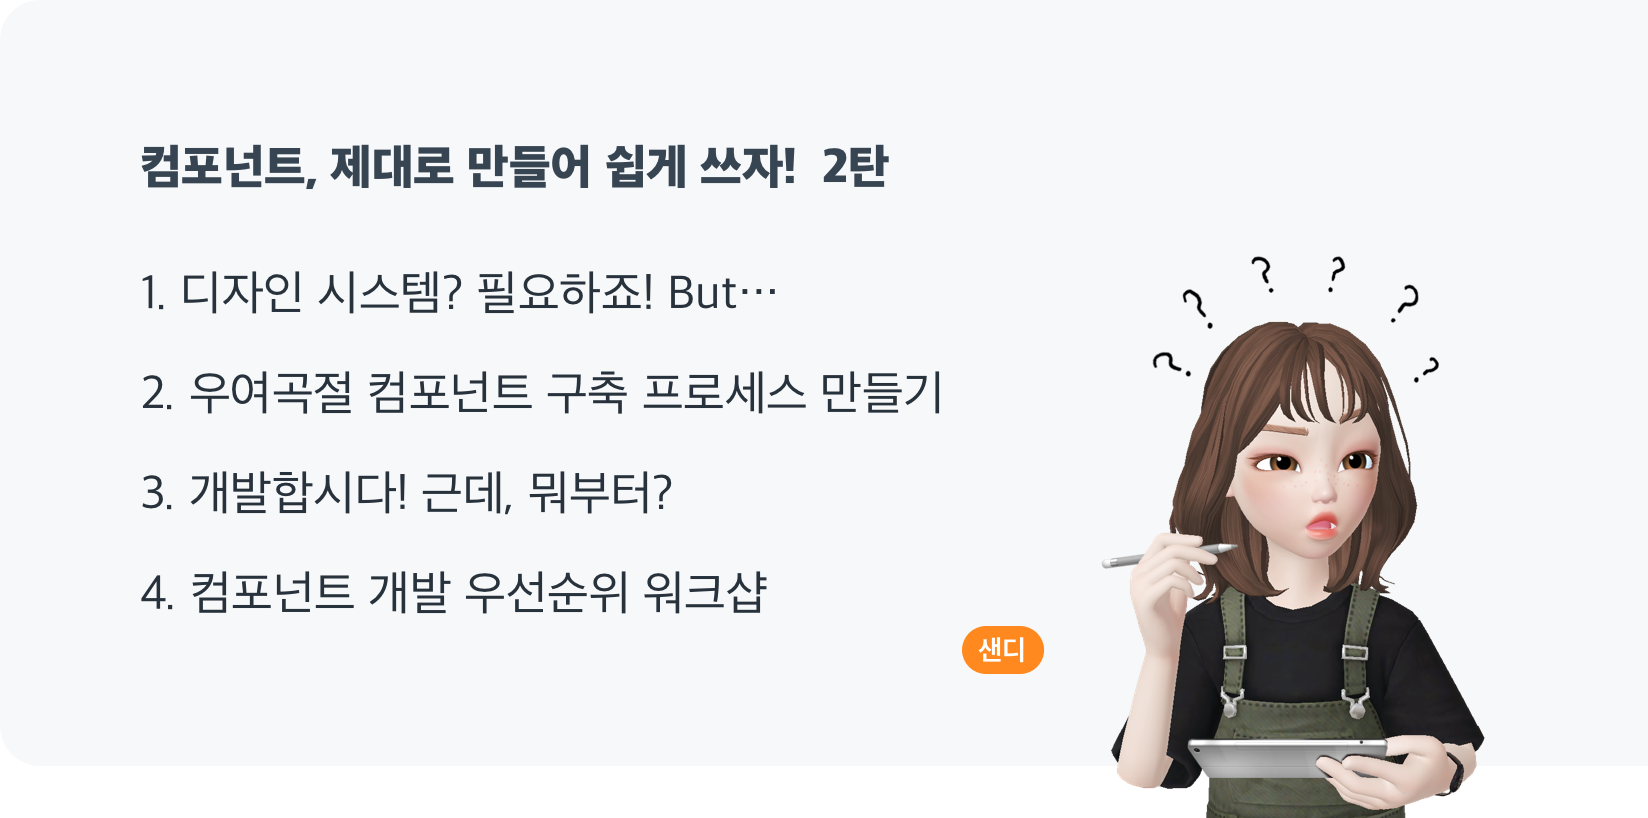
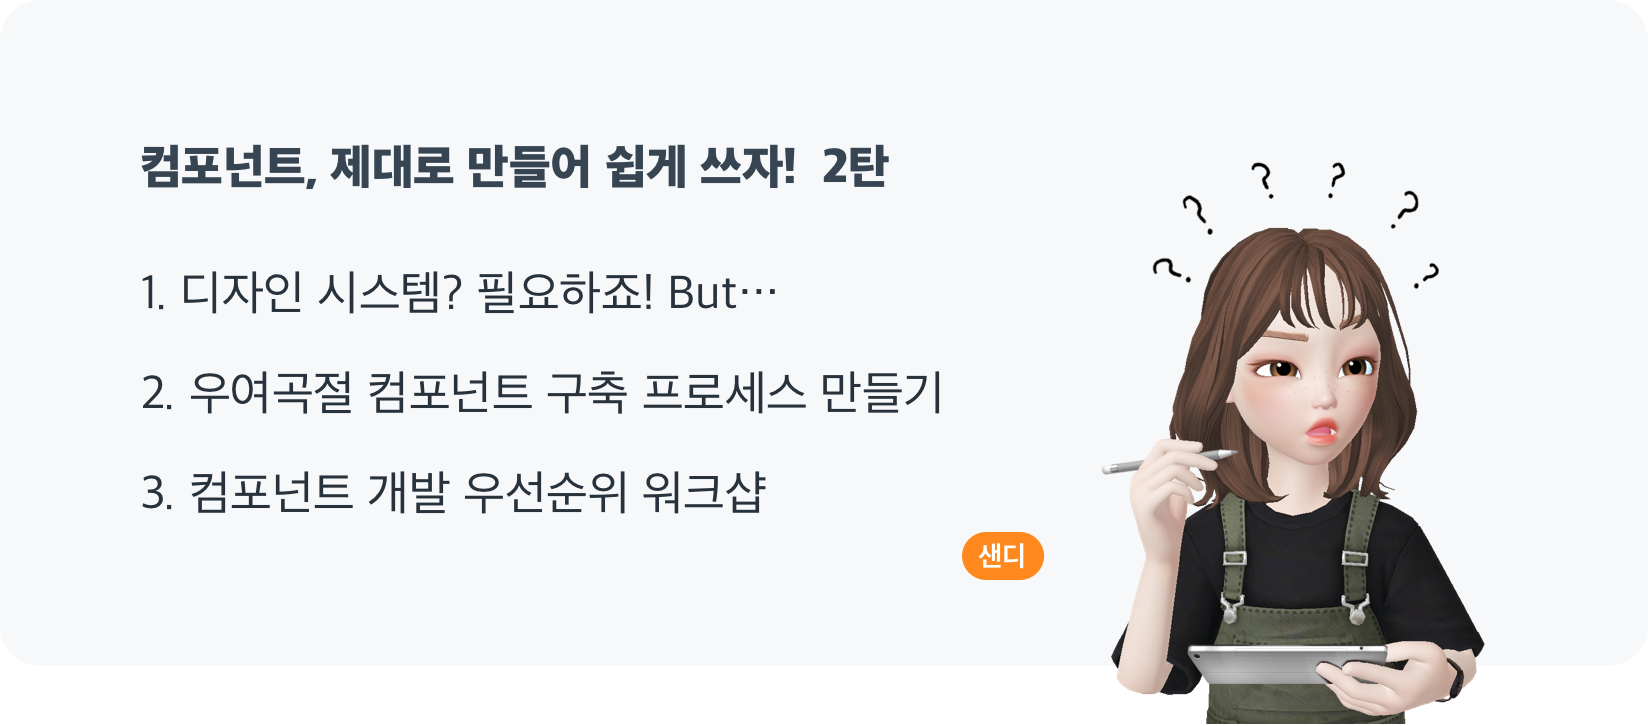
[modify] review 반영

diff --git a/_posts/2020-09-08-component-02.md b/_posts/2020-09-08-component-02.md
@@ -23,7 +23,7 @@ tags:
 
 ### 이번 글에서는...
 
-지난 글에서는 쏘카에서 컴포넌트가 필요했던 이유와 구축 방법에 대해 소개하며 주로 결과에 관해 이야기 했고, 이번에는 컴포넌트 구축을 하며 겪었던 **외부적인 어려움과 그 어려움을 해결하기 위해 치열하게 고민했던 경험**을 나누려 합니다! 
+지난 글에서는 쏘카에서 컴포넌트가 필요했던 이유와 구축 방법에 대해 소개하며 주로 결과에 관해 이야기 했고, 이번에는 컴포넌트 구축을 하며 겪었던 **어려움과 그 어려움을 해결하기 위해 치열하게 고민했던 경험**을 나누려 합니다! 
 
 ![](/img/component-02/01.png){: width="100%" height="100%"}
 
@@ -49,8 +49,6 @@ tags:
 
 <br />
 
----
-
 <br />
 
 ### 1) 🙏 미안해요, 개발할 시간이 없어요!
@@ -69,6 +67,8 @@ tags:
 
 
 ### 2) 개발하기로 확정했지만, 정체된 이유는?
+
+<br />
 
 1. **기존 업무 프로세스는** 배포 주기 단위의 **단기 업무 중심**인데, **디자인 시스템은 장기 프로젝트라** 기존 업무 프로세스에서 정상적으로 진행되기 어려움
 2. 프로젝트가 계획 가능한 작은 단위로 정리되어 있지 않고, **포괄적으로 뭉쳐있음 ("버튼 개발"이 아니라 "컴포넌트 구축하기" 이런 식으로.)**
@@ -91,6 +91,8 @@ tags:
 
 ### 1) 컴포넌트를 원활하게 개발 하려면?
 
+<br />
+
 1. **한 버전에 한 개의 컴포넌트 구축**이 가능한 수준의 범위로 프로젝트를 나눈다. 
 2. 각 프로젝트마다 **디자이너 1명이 PM**을 맡아 원활하게 이끈다.
 3. 반복되는 컴포넌트 구축을 위한 **프로세스**를 만든다.
@@ -103,7 +105,7 @@ tags:
 </center>
 
 
-위의 세 가지 내용을 바탕으로, **효율적인 컴포넌트 구축을 위한 프로세스**를 ****만들었습니다. 그냥 보기에는 보편적인 프로젝트의 프로세스와 별 다를 바 없어 보이죠? 그럼, 단계별로 자세히 살펴볼까요! 
+위의 세 가지 내용을 바탕으로, **효율적인 컴포넌트 구축을 위한 프로세스**를 만들었습니다. 그냥 보기에는 보편적인 프로젝트의 프로세스와 별 다를 바 없어 보이죠? 그럼, 단계별로 자세히 살펴볼까요! 
 
 <br />
 
@@ -199,7 +201,7 @@ tags:
 
 ### ➎ 정리
 
-컴포넌트의 배포가 완료되면, 이제 남은 일은 하나입니다. **쏘카프레임 웹 사이트에 용도와 용법에 대해 정리**해서 업로드하기! 디자이너와 개발자 그리고 기획자 등 쏘카 프로덕트를 함께 만들어가는 동료들이 이해할 수 있도록 **최대한 분명하고 체계적**으로 정리합니다. (쏘카프레임 웹사이트를 만드는 과정도 쉽지 않았는데요. 😂기회가 된다면 따로 정리해서 올리겠습니다!)
+컴포넌트의 배포가 완료되면, 이제 남은 일은 하나입니다. **[쏘카프레임 웹 사이트](https://socarframe.socar.kr/)에 용도와 용법에 대해 정리**해서 업로드하기! 디자이너와 개발자 그리고 기획자 등 쏘카 프로덕트를 함께 만들어가는 동료들이 이해할 수 있도록 **최대한 분명하고 체계적**으로 정리합니다. (쏘카프레임 웹사이트를 만드는 과정도 쉽지 않았는데요. 😂기회가 된다면 따로 정리해서 올리겠습니다!)
 
 ![](/img/component-02/13.png){: width="100%" height="100%"}
 
@@ -209,23 +211,31 @@ tags:
 
 <br />
 
-## 3. 👨🔧 시작합시다! 근데, 뭐부터?
+## 3. 컴포넌트 구축 우선순위 워크샵
 
-이제, 모든 준비는 완료됐습니다. 그럼 이제 개발을 시작해야겠죠? 근데, 어떤 컴포넌트부터 개발할까요? 앞서 말했듯이 우리 모두의 리소스는 한정되어 있기 때문에 **공수 대비 가장 효과적으로 사용할 수 있는 컴포넌트부터 개발**해야 합니다. 처음에는 디자이너가 먼저 제안을 했습니다. 
 
-### 1) 디자이너의 생각 ≠ 개발자의 생각
+<br />
+
+### 1) 👨🔧개발합시다! 근데, 뭐부터?
+
+이제, 모든 준비는 완료됐습니다. 근데, 어떤 컴포넌트부터 개발할까요? 앞서 말했듯이 우리 모두의 리소스는 한정되어 있기 때문에 **공수 대비 가장 효과적으로 사용할 수 있는 컴포넌트부터 개발**해야 합니다. 처음에는 디자이너가 먼저 제안을 했습니다.
+
+<br />
+
+### 2) 디자이너의 생각 ≠ 개발자의 생각
 
 첫 번째로 개발하는 컴포넌트는 버튼이었습니다. 비교적 가장 복잡한 컴포넌트인 버튼을 개발한 뒤 쉬어가는 의미로 **두 번째는 조금 단순한 컴포넌트를 개발하기로** 했습니다.
 
-디자이너들끼리 논의한 결과, 버튼과 비슷한 형태를 가진 Chip이 가장 적당해 보였죠. 그래서 개발자들에게 Chip을 제안했습니다. 결과는 어땠을까요? 예상과는 달리 개발자분들이 난색을 보였습니다. **보이는 것보다 복잡한 개발이 필요한 상태**였어요. 그래서 저희는 부랴부랴 **다음 컴포넌트 후보를 찾는 데 시간을 추가로 사용했습니다.**  
+디자이너들끼리 논의한 결과, 버튼과 비슷한 형태를 가진 Chip이 가장 적당해 보였죠. 그래서 개발자들에게 Chip을 제안했습니다. 결과는 어땠을까요? 예상과는 달리 개발자분들이 난색을 보였습니다. **보이는 것보다 복잡한 개발이 필요한 상태**였어요. 그래서 저희는 부랴부랴 **다음 컴포넌트 후보를 찾는 데 시간을 추가로 사용했습니다.**
+
+
+![](/img/component-02/13-1.png){: width="100%" height="100%"}
 
 <br />
 
----
 
-<br />
 
-## 4. 컴포넌트 구축 우선순위 워크샵
+### 3) 합리적인 컴포넌트 개발 순서 정하기
 
 위의 사건을 계기로 저희는 컴포넌트를 구축하는 순서를 위한 **합리적인 의사결정이 필요**하다는 사실을 깨달았습니다. 그럼 어떤 기준으로 정해야 가장 이상적인 결과를 얻을 수 있을까요? 저는 한 [아티클을 참고](https://uxdesign.cc/workshop-how-to-prioritize-your-design-system-components-744aa99f07d7)해, **컴포넌트를 어떤 순서로 개발 해야 할 지 담당자들과 함께 워크샵을 진행했습니다.**
 
@@ -245,7 +255,7 @@ tags:
 
 <br />
 
-### 1) 무엇을, 언제, 어떻게?
+### ➊ 무엇을, 언제, 어떻게?
 
 우선 올해를 목표 기간으로 정하고, **올해 안에 컴포넌트화 하고 싶은 심볼 리스트**를 작성했습니다. 그 다음, 목표 단위를 분기별로 쪼갠 뒤 **개발이 [단순(3일 이하) - 복잡(일주일 이상)] 한 것 그리고 [자주 - 가끔] 사용하는 것**의 기준을 정했습니다.
 
@@ -257,7 +267,7 @@ tags:
 
 <br />
 
-### 2) 디자이너 💗 개발자
+### ➋ 디자이너 💗 개발자
 
 다이어그램을 그리기 위한 준비를 완료했으면, **개발자와 디자이너 그룹으로 나누어** 각 그룹끼리 모여 **심볼 리스트를 그래프에 배치**합니다. 1차 배치가 끝나면 두 그룹이 생각한 개발 순서에 대한 설명을 듣고, 모두 모여 최종 그래프를 완성합니다. 
 
@@ -305,7 +315,9 @@ tags:
 이 워크숍의 장점은 **디자이너와 개발자가 서로를 이해하면서 합리적인 의사결정**을 내릴 수 있다는 점인데요. 쏘카프레임은 장기 프로젝트 입니다. 그렇기 때문에, 길을 잃지 않고 앞으로 나아가기 위해 **충분히 합의된 장기적인 계획이 필요**합니다.
 
 <br />
+
 ---
+
 <br />
 
 ## 쏘카프레임은 현재 진행 중...
@@ -326,7 +338,10 @@ tags:
 <br />
 
 ## 지금까지...
-### 컴포넌트, 제대로 만들어 쉽게 쓰자! 1탄
+
+<br />
+
+### [컴포넌트, 제대로 만들어 쉽게 쓰자! 1탄](https://tech.socarcorp.kr/design/2020/07/31/component-01.html)
 
 1. 컴포넌트 구축이 왜 필요한지
 2. 컴포넌트 네이밍 룰을 구축하고, 실제로 사용하는 방법
@@ -339,11 +354,6 @@ tags:
 2. 컴포넌트 구축 프로세스 만들기
 3. 합리적인 컴포넌트 구축 순서 정하기
 
-### 컴포넌트, 제대로 만들어 쉽게 쓰자! 2탄
-
-1. 컴포넌트 구축 프로젝트 실행의 어려움
-2. 컴포넌트 구축 프로세스 만들기
-3. 컴포넌트 구축 우선순위 워크샵
 
 이렇게 1~2탄에 걸쳐서 **쏘카프레임의 컴포넌트 구축**을 진행하면서 겪은 **어려움과 극복하는 과정**을 소개했는데요. 아마 현재 많은 팀이 디자인 시스템에 많은 관심을 두고 계실 거라 생각합니다. 
 
